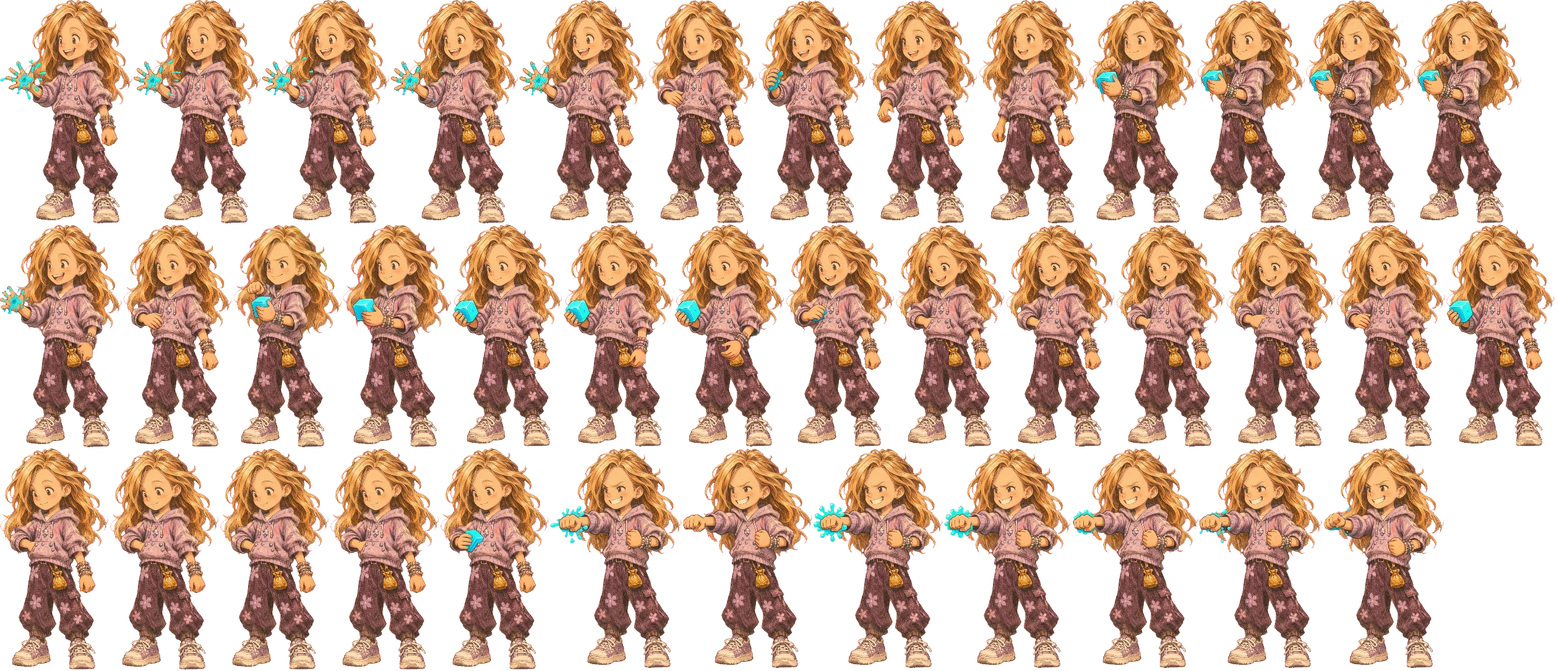
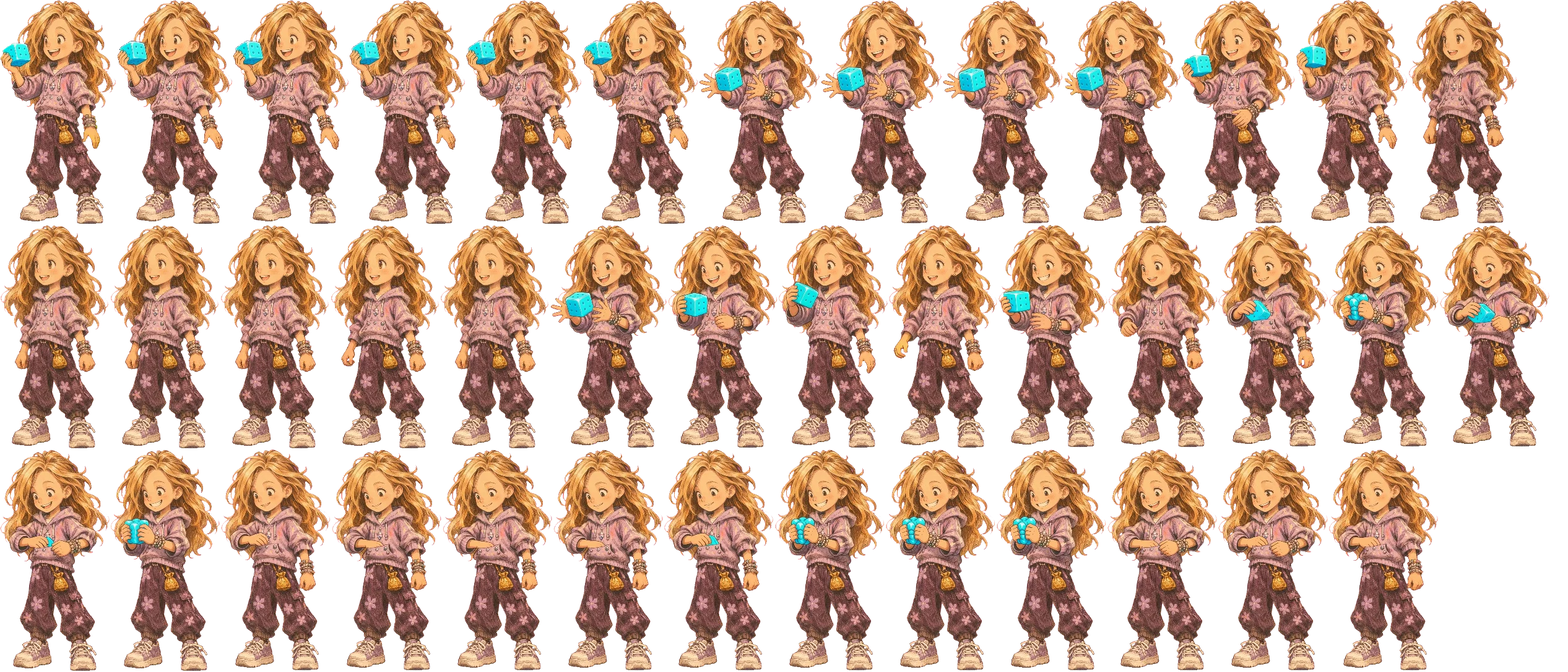
wanstop-grace-cubepop-r4: bake Grace Cube Pop video as Tom chose; watch card
Claude-Session: https://claude.ai/code/session_01RXeukEzG7UpC3ncVHRM4wi

diff --git a/data/clips/grace-cubepop.js b/data/clips/grace-cubepop.js
@@ -1,5 +1,5 @@
 'use strict';
 // data/clips/grace-cubepop.js: GENERATED by tools/clip-bake/bake_clip.py; do not hand-edit. Read by engine/clips.js.
-// Source frames 18 to 132 of the video, every 3, impact at video frame 69, played at 1.5x.
-// Baked from: art/raw/clips/wan-grace-cubepop-v3.mp4 (wan-gen grace-cubepop rev 3; 18 to 132 step 3, impact 69, 1.5x)
-bclipDefine("grace_cubepop",{"owner":"grace","src":"art/clips/grace-cubepop.webp?v=anim-grace-cubepop-tvik","k":4,"w":68,"h":92,"n":39,"rects":[[1048,0,176,361,48,7],[199,363,176,360,48,8],[0,725,176,358,48,10],[178,725,176,358,48,10],[356,725,176,358,48,10],[534,725,176,358,48,10],[712,725,175,358,48,10],[2338,363,175,359,47,9],[731,363,178,359,44,9],[911,363,178,359,44,9],[1091,363,177,359,45,9],[555,363,174,360,51,8],[1760,0,174,361,55,7],[1936,0,173,361,58,7],[2111,0,173,361,58,7],[2286,0,173,361,58,7],[377,363,176,360,55,8],[1104,725,209,355,16,13],[1733,725,204,355,18,13],[1526,725,205,355,14,13],[1315,725,209,355,11,13],[889,725,213,355,7,13],[1939,725,198,355,22,13],[2139,725,195,355,25,13],[0,363,197,360,25,8],[0,0,214,361,9,7],[216,0,206,361,18,7],[424,0,206,361,18,7],[632,0,206,361,18,7],[840,0,206,361,18,7],[1226,0,176,361,48,7],[1270,363,176,359,48,9],[1448,363,176,359,48,9],[1626,363,176,359,48,9],[1804,363,176,359,48,9],[1982,363,176,359,48,9],[2160,363,176,359,48,9],[1404,0,176,361,48,7],[1582,0,176,361,48,7]],"ms":[0,67,133,200,267,333,400,467,533,600,667,733,800,867,933,1000,1067,1133,1200,1267,1333,1400,1467,1533,1600,1667,1733,1800,1867,1933,2000,2067,2133,2200,2267,2333,2400,2467,2533],"dur":2600,"kind":"strike","impact":17,"reach":[30.0,58.9],"feet":[[-0.4,33.5],[-0.4,33.5],[-0.4,33.5],[-0.4,33.5],[-0.4,33.5],[-0.4,33.5],[-0.4,33.5],[-0.4,33.5],[-0.4,33.5],[-0.4,33.5],[-0.4,33.5],[-0.4,33.5],[-0.4,33.5],[-0.4,33.5],[-0.4,33.5],[-0.4,33.5],[-0.4,33.5],[-0.4,33.5],[-0.4,33.5],[-0.4,33.5],[-0.4,33.5],[-0.4,33.5],[-0.4,33.5],[-0.4,33.5],[-0.4,33.5],[-0.4,33.5],[-0.4,33.5],[-0.4,33.5],[-0.4,33.5],[-0.4,33.5],[-0.4,33.5],[-0.4,33.5],[-0.4,33.5],[-0.4,33.5],[-0.4,33.5],[-0.4,33.5],[-0.4,33.5],[-0.4,33.5],[-0.4,33.5]]});
+// Source frames 0 to 117 of the video, every 3, impact at video frame 42, played at 1.25x.
+// Baked from: wanstop-grace-cubepop-r4 by hand: grace-cubepop-a2-r4.mp4
+bclipDefine("grace_cubepop",{"owner":"grace","src":"art/clips/grace-cubepop.webp?v=clip0","k":4,"w":56,"h":92,"n":40,"rects":[[2275,0,176,361,24,7],[0,364,176,361,24,7],[712,364,175,361,25,7],[178,364,176,361,24,7],[356,364,176,361,24,7],[534,364,176,361,24,7],[1436,364,175,360,24,8],[1791,364,175,359,23,9],[357,727,177,357,20,11],[2147,727,176,357,20,11],[536,727,177,357,19,11],[715,727,177,357,19,11],[894,727,177,357,19,11],[1073,727,177,357,20,11],[1968,364,177,358,20,10],[1258,364,176,360,22,8],[2094,0,179,361,19,7],[189,0,186,362,12,6],[377,0,186,362,12,6],[565,0,186,362,12,6],[753,0,186,362,12,6],[941,0,186,362,12,6],[0,0,187,362,11,6],[1909,0,183,361,16,7],[1613,364,176,359,23,9],[179,727,176,358,22,10],[1252,727,177,357,20,11],[1431,727,177,357,20,11],[1610,727,177,357,20,11],[2147,364,177,358,20,10],[889,364,188,360,10,8],[1523,0,194,361,6,7],[1129,0,195,361,5,7],[1326,0,195,361,5,7],[1719,0,188,361,12,7],[1079,364,177,360,23,8],[2326,364,177,358,22,10],[0,727,177,358,22,10],[1789,727,177,357,22,11],[1968,727,177,357,22,11]],"ms":[0,100,200,300,400,500,600,700,800,900,1000,1100,1200,1300,1400,1500,1600,1700,1800,1900,2000,2100,2200,2300,2400,2500,2600,2700,2800,2900,3000,3100,3200,3300,3400,3500,3600,3700,3800,3900],"dur":4000,"kind":"strike","impact":14,"reach":[23.0,63.0],"feet":[[-0.6,33.5],[-0.6,33.5],[-0.6,33.5],[-0.6,33.5],[-0.6,33.5],[-0.6,33.5],[-0.6,33.5],[-0.6,33.5],[-0.6,33.5],[-0.6,33.5],[-0.6,33.5],[-0.6,33.5],[-0.6,33.5],[-0.6,33.5],[-0.6,33.5],[-0.6,33.5],[-0.6,33.5],[-0.6,33.5],[-0.6,33.5],[-0.6,33.5],[-0.6,33.5],[-0.6,33.5],[-0.6,33.5],[-0.6,33.5],[-0.6,33.5],[-0.6,33.5],[-0.6,33.5],[-0.6,33.5],[-0.6,33.5],[-0.6,33.5],[-0.6,33.5],[-0.6,33.5],[-0.6,33.5],[-0.6,33.5],[-0.6,33.5],[-0.6,33.5],[-0.6,33.5],[-0.6,33.5],[-0.6,33.5],[-0.6,33.5]]});

diff --git a/index.html b/index.html
@@ -1610,7 +1610,7 @@ html.landscape:not(.tablet):not(.duo) #battle.v2 .b2-x{font-size:17px}html.lands
 <script src="data/clips/grace-victory.js?v=wanch1"></script>
 <script src="data/clips/grace-run.js?v=wanch1"></script>
 <script src="data/clips/grace-squeeze.js?v=smokefix1"></script>
-<script src="data/clips/grace-cubepop.js?v=anim-grace-cubepop-tvik"></script>
+<script src="data/clips/grace-cubepop.js?v=wanstop-grace-cubepop-r4"></script>
 <script src="data/clips/tom-idle.js?v=wanch1"></script>
 <script src="data/clips/tom-guard.js?v=wanch1"></script>
 <script src="data/clips/tom-hit.js?v=wanch1"></script>
@@ -1980,7 +1980,7 @@ html.landscape:not(.tablet):not(.duo) #battle.v2 .b2-x{font-size:17px}html.lands
 <script src="engine/emotions.js?v=qa-bug02"></script>
 <script src="engine/script-edits.js?v=scripted2"></script><!-- Script Editor overlay: Tom's line edits applied before a scene plays (script.html) --><!-- mood faces and poses in story dialogue (batch 0: chapter 1) -->
 <script src="engine/tapwalk.js?v=bossbig1"></script><!-- tap to walk -->
-<script src="data/build-history.js?v=boardwedge1"></script><!-- build names and times (tools/build_history.py) -->
+<script src="data/build-history.js?v=wanstop-grace-cubepop-r4"></script><!-- build names and times (tools/build_history.py) -->
 <script src="engine/build-history.js?v=buildpill1"></script><!-- build label on the welcome screen and menu, tap for the build history -->
 <script src="engine/m2-core.js?v=menu4"></script><!-- the main menu (menu1, the only menu since menu4) -->
 <script src="engine/m2-family.js?v=menu1"></script><!-- its Family page -->
@@ -1990,7 +1990,7 @@ html.landscape:not(.tablet):not(.duo) #battle.v2 .b2-x{font-size:17px}html.lands
 <script src="engine/block-break.js?v=ch7t1"></script><!-- breaking an orange block: coin, cracks, colour ring, shrink-back, encounters off (ch6build stage 2) -->
 <script src="engine/scene-props.js?v=qa-coh07"></script><!-- drawn stand-in props a scene can put on a map: the chart, Rose rolled up, the gold ball, bulbs (ch7build stage 2) -->
 <script src="engine/video-call.js?v=ch6s4"></script><!-- the video call at the end of chapter 6: Long Island seen from Tom's porch (ch6build stage 4) -->
-<script src="engine/main.js?v=boardwedge1"></script>
+<script src="engine/main.js?v=wanstop-grace-cubepop-r4"></script>
 <script src="engine/music.js"></script>
 <script src="data/songs.js"></script>
 <script src="engine/music-clips.js?v=adminvol1"></script>

diff --git a/data/build-history.js b/data/build-history.js
@@ -1,5 +1,6 @@
 // Generated by tools/build_history.py. Do not edit by hand. Newest first.
 const BUILD_HISTORY=[
+{"tag":"wanstop-grace-cubepop-r4","at":"2026-11-22T06:10:39+00:00","what":"Grace's Crunchy Sugar-Cube Pop video (rev 4) is baked into the game by hand","card":"c-wanstop-grace-cubepop-r4","theme":"Battle Animations"},
 {"tag":"boardwedge1","at":"2026-11-22T06:06:26+00:00","what":"Board sync can no longer be stalled by a Tom card that blocks only finished work, or by merge-conflict markers in the board files","card":"c-boardwedge1","theme":"Project Ops"},
 {"tag":"wanqueue1","at":"2026-11-21T22:00:21-08:00","what":"A video run also makes every other card still waiting; fal.ai is out of credit","card":"c-wanqueue1","theme":"Battle Animations"},
 {"tag":"wanpurpose1","at":"2026-11-21T21:52:44-08:00","what":"The video check judges the move's purpose, not every word; Deedee's Wet-Floor uses the take with the wet-floor sign","card":"c-wanpurpose1","theme":"Battle Animations"},

diff --git a/engine/main.js b/engine/main.js
@@ -110,7 +110,7 @@ startSplash();
   const d=document.createElement('button');
   d.type='button'; d.id='build-stamp'; d.setAttribute('aria-label','Build history');
   // On an iPhone Duo the stamp also shows the page size and pose the game measured, so Tom can read them back (docs/DUO.md).
-  d.textContent='build boardwedge1';
+  d.textContent='build wanstop-grace-cubepop-r4';
   const build=d.textContent,stamp=()=>{ const w=typeof buildWhenLabel==='function'?buildWhenLabel(build.slice(6)).slice(2):'', duo=typeof duoMode!=='undefined'&&duoMode.device?window.innerWidth+'x'+window.innerHeight+(duoMode.open?' duo open':' duo folded'):'';
     d.textContent=build; for(const t of [w,duo]) if(t){ const s=document.createElement('small'); s.textContent=t; d.appendChild(s); } };
   window.BUILD_TAG=build.slice(6);

diff --git a/docs/CHANGES.md b/docs/CHANGES.md
@@ -1,3 +1,7 @@
+## wanstop-grace-cubepop-r4 (2026-11-22): Grace's Crunchy Sugar-Cube Pop video (rev 4) is baked into the game by hand
+
+Two tries of rev 4 failed only the look-checks (the pocket pickup and tuck are called not clear). I looked at the frames: she takes the blue cube, squeezes it once with both hands and tucks it back, and height, feet, flat background, edges and ends all pass. Tom chose "Bake the latest video as it is" on t-cubepop-checkdecide-r4, so I baked grace-cubepop-a2-r4.mp4 with the job's own settings (tools/art-library/wanbake.py, strike, every 3rd picture, 1.25x) into art/clips/grace-cubepop.webp and data/clips/grace-cubepop.js. The move already pointed at the clip, so no wiring changed. Nothing was generated and no money was spent; no new try was started (the fal balance was also out).
+
 ## wanqueue1 (2026-11-21): a video run also makes every other card still waiting; fal.ai is out of credit
 
 Card c-wanqueue1. Tom (21:59): "that leaves me totally confused as to what happens next". Facts: every wan-gen run since 05:20 UTC stopped on fal "User is locked. Reason: Exhausted balance" (ledger $66.52); Rose's pair tap (05:23 UTC) was dropped because two cards asked at once and GitHub keeps one waiting run. Change: after its own card, a bulk run makes every other card whose wgen.want is still true (read from the newest main), so a dropped run no longer strands a tap. Tom card t-fal-topup.
